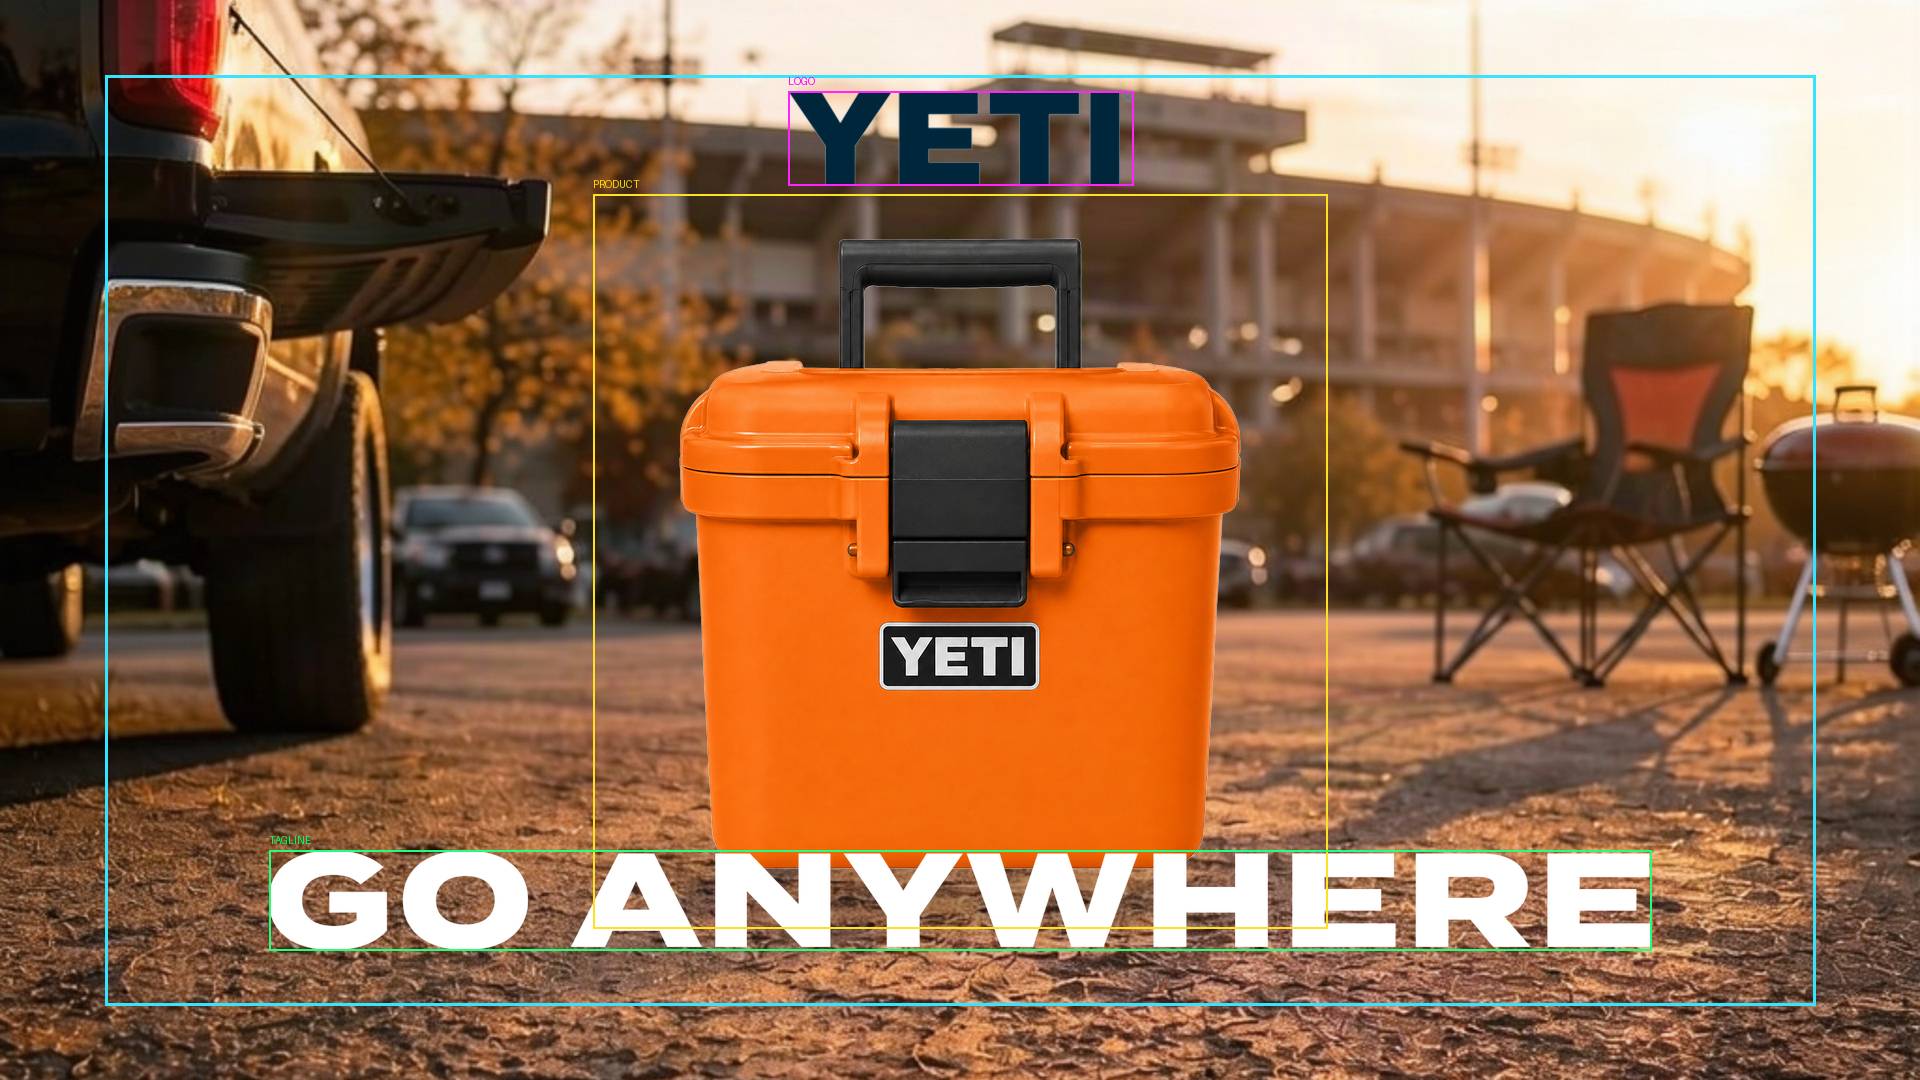
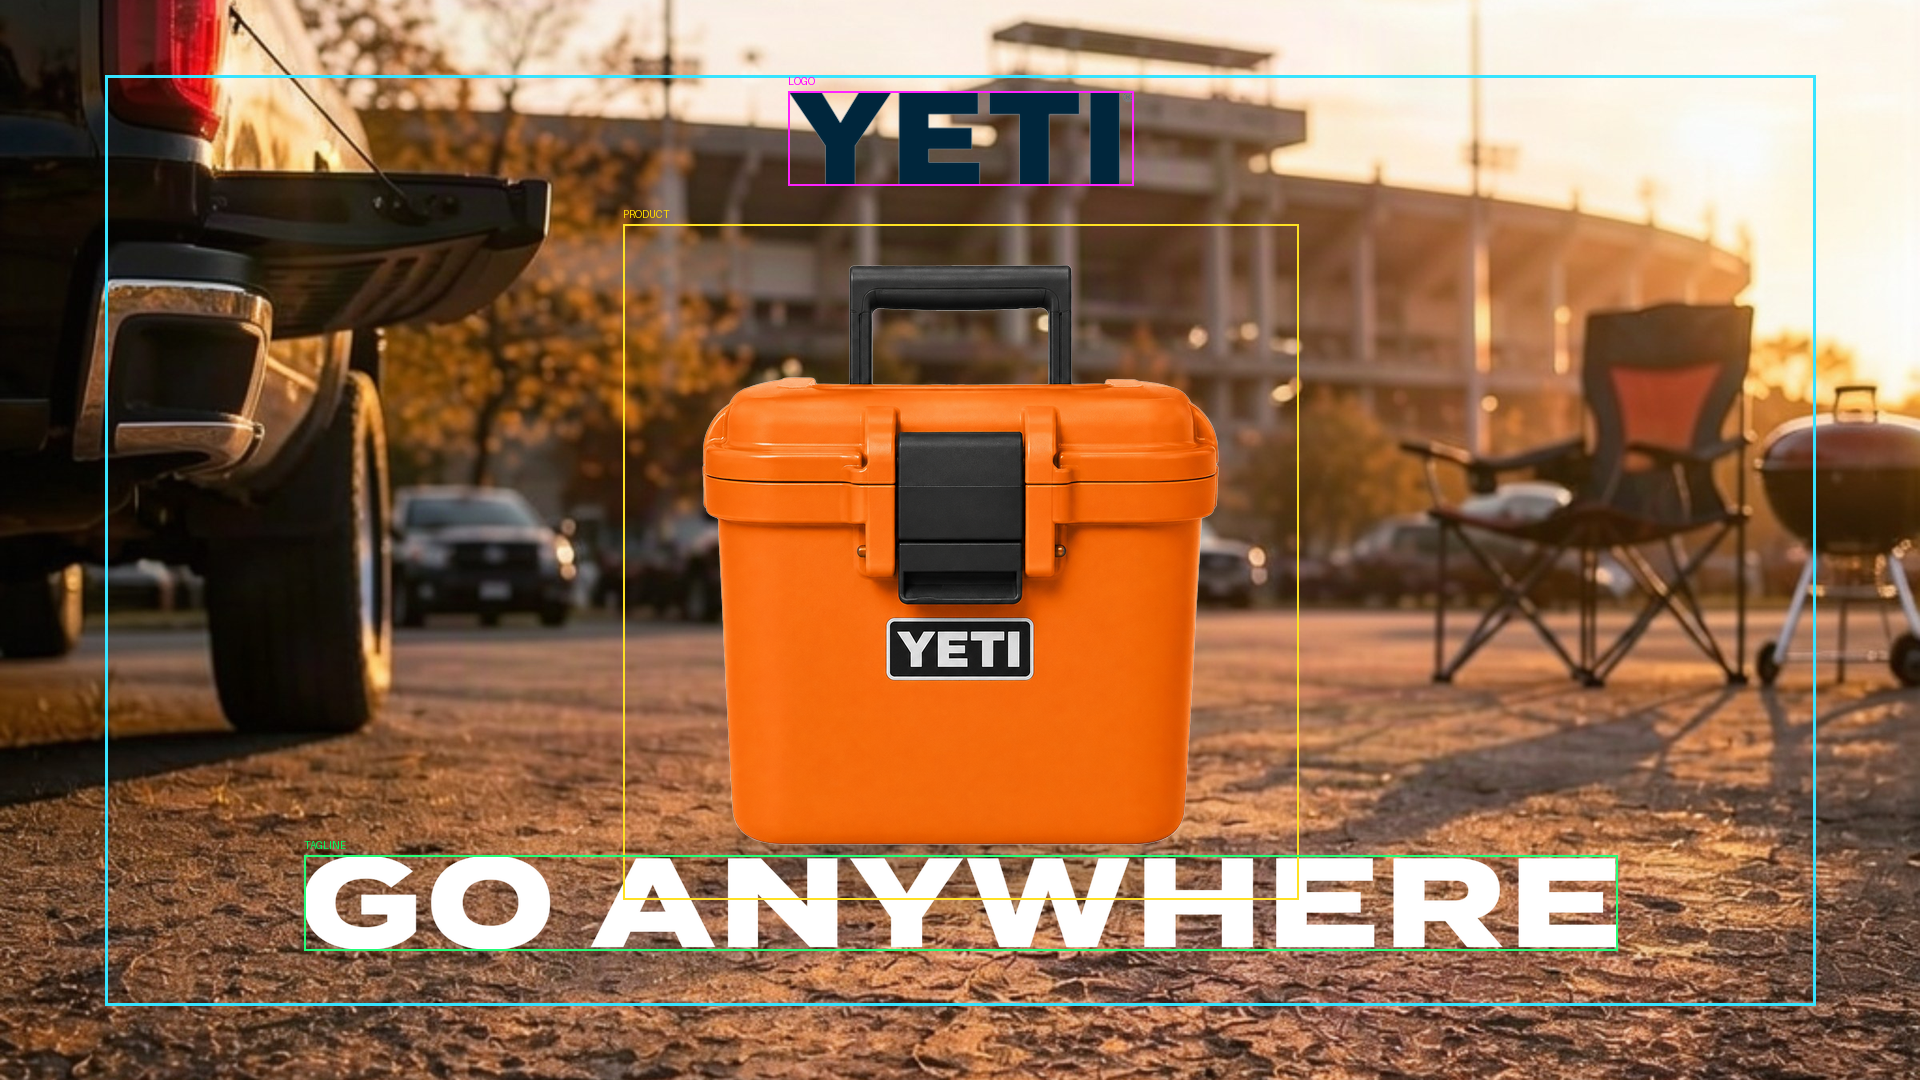
Adjust 16:9 layout: decrease product size by 8% and tagline by 5%, re-render test fixtures

Changed region(s): [[0.125, 0.2139, 0.875, 0.8861], [0.3125, 0.1528, 0.3438, 0.2139]]

diff --git a/backend/app/models/layout.py b/backend/app/models/layout.py
@@ -101,16 +101,16 @@ LAYOUT_CONFIGS: Dict[str, RatioLayoutConfig] = {
         product_region=NormalizedRegion(
             x=0.50,
             y=0.52,
-            max_width_pct=0.52,
-            max_height_pct=0.68,
+            max_width_pct=0.4784,  # Decreased by 8% (0.52 -> 0.4784)
+            max_height_pct=0.6256,  # Decreased by 8% (0.68 -> 0.6256)
             anchor_x="center",
             anchor_y="center",
         ),
         tagline_region=NormalizedRegion(
             x=0.50,
             y=0.88,
-            max_width_pct=0.72,
-            max_height_pct=0.20,
+            max_width_pct=0.684,   # Decreased by 5% (0.72 -> 0.684)
+            max_height_pct=0.19,    # Decreased by 5% (0.20 -> 0.19)
             anchor_x="center",
             anchor_y="bottom",
         ),
